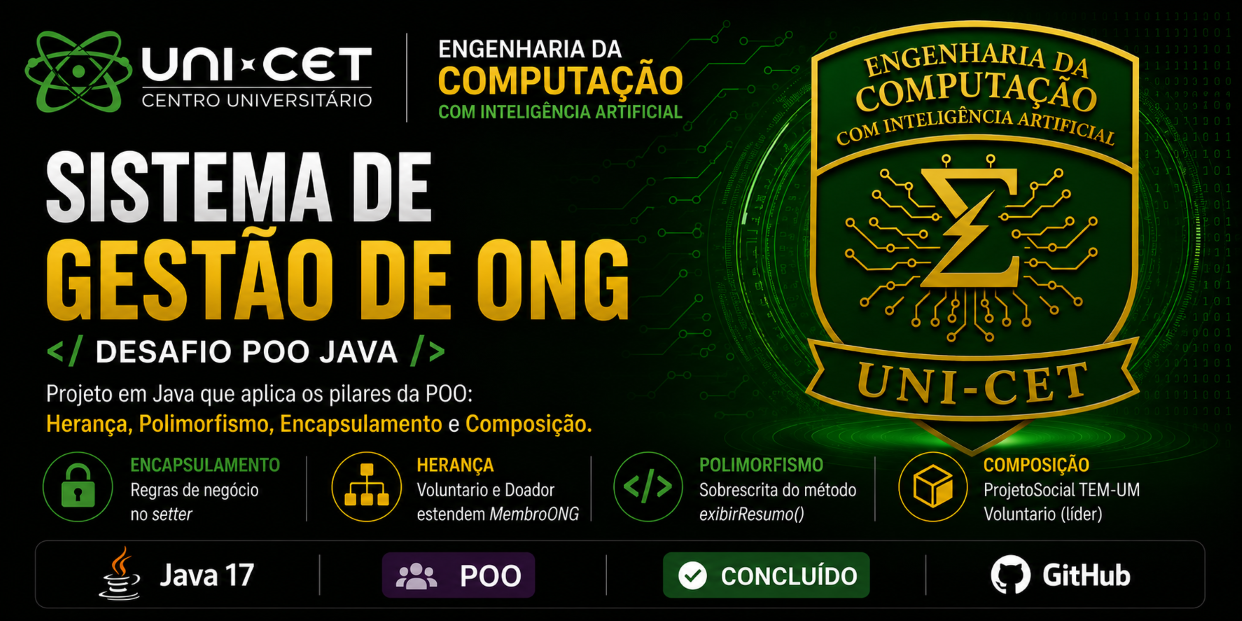
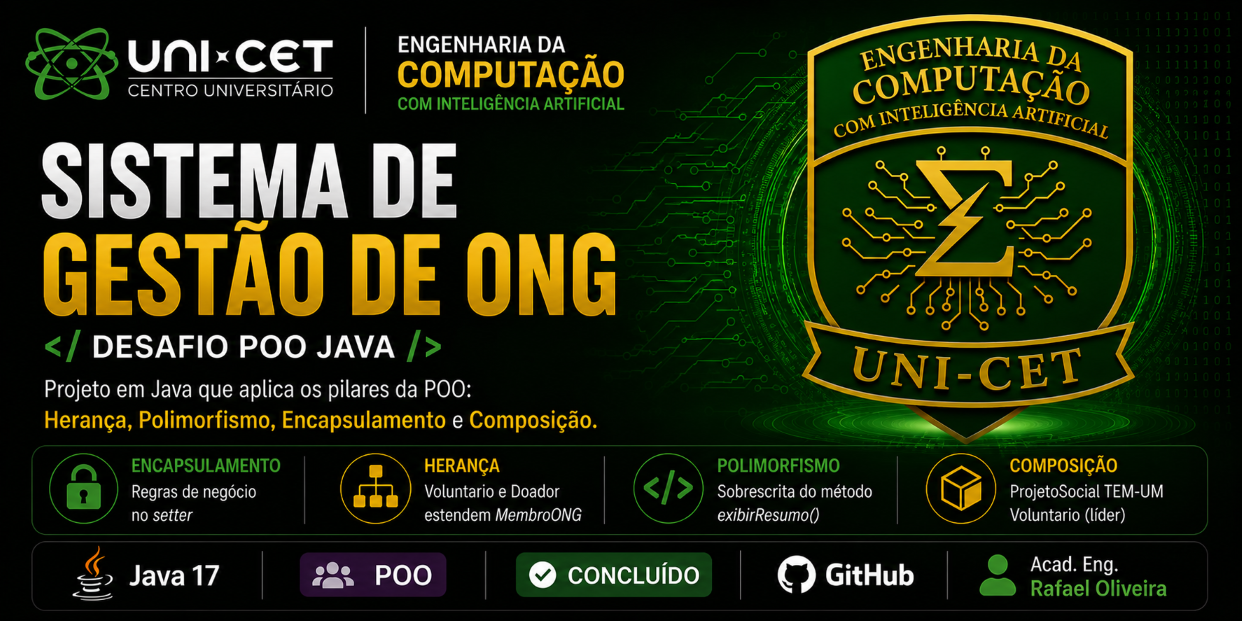
Atualiza nome do aluno para 'Acad. Eng.' e atualiza imagem Social Preview

diff --git a/README.md b/README.md
@@ -9,7 +9,7 @@
   <tr><td><strong>Curso</strong></td><td>Bacharelado em Engenharia de Computação com IA</td></tr>
   <tr><td><strong>Disciplina</strong></td><td>Programação Orientada a Objetos — POO</td></tr>
   <tr><td><strong>Ministrante</strong></td><td>Prof. Eng. Esp. Lucas Mateus de Lima Neris</td></tr>
-  <tr><td><strong>Aluno</strong></td><td>Rafael Sampaio Oliveira</td></tr>
+  <tr><td><strong>Aluno</strong></td><td>Acad. Eng. Rafael Sampaio Oliveira</td></tr>
   <tr><td><strong>Matrícula</strong></td><td>241560003</td></tr>
 </table>
 
